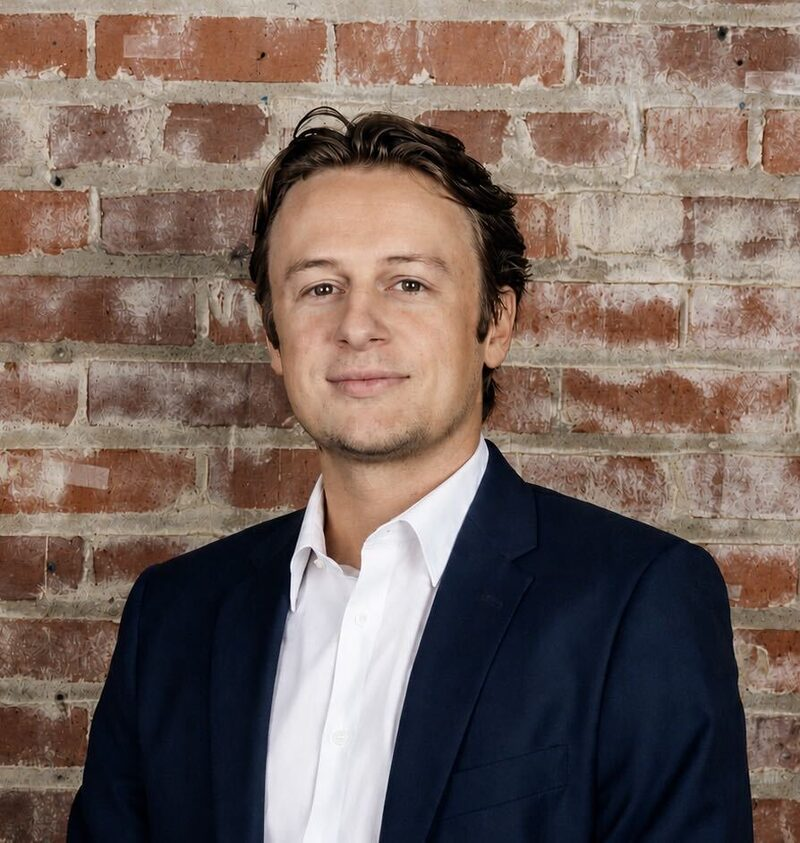
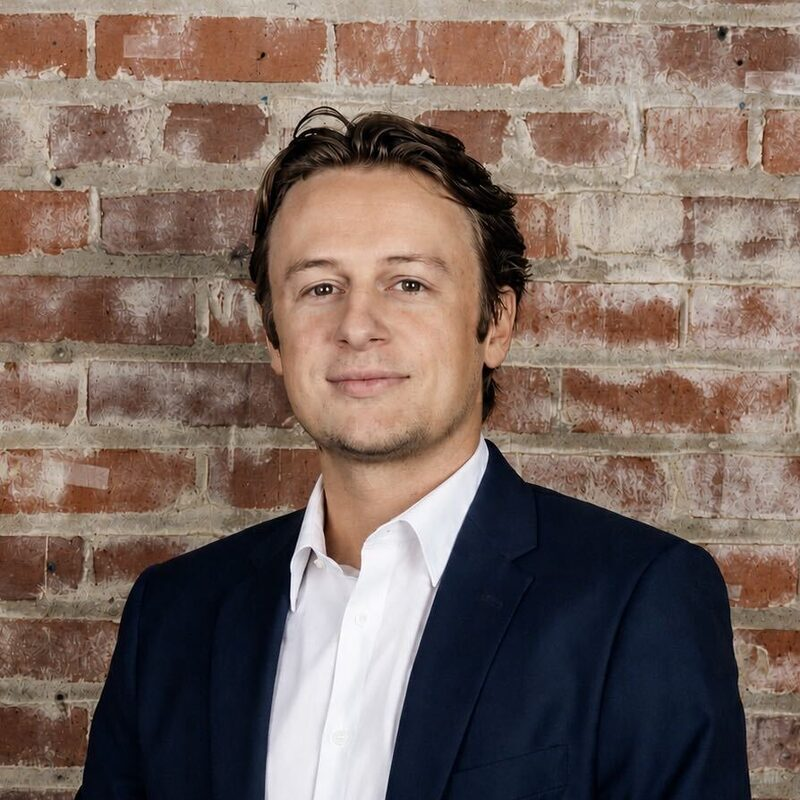
notion connection

diff --git a/app/api/reserve/route.js b/app/api/reserve/route.js
@@ -1,0 +1,56 @@
+// Receives reservation-list form submissions and creates a row in the
+// "BC Website Leads" Notion database. Requires two environment variables
+// (set in Vercel → Project → Settings → Environment Variables):
+//   NOTION_TOKEN       — internal integration secret (starts with "ntn_")
+//   NOTION_DATABASE_ID — the BC Website Leads database ID
+
+export async function POST(req) {
+  if (!process.env.NOTION_TOKEN || !process.env.NOTION_DATABASE_ID) {
+    console.error("Missing NOTION_TOKEN or NOTION_DATABASE_ID");
+    return Response.json({ error: "Server not configured" }, { status: 500 });
+  }
+
+  let data;
+  try {
+    data = await req.json();
+  } catch {
+    return Response.json({ error: "Invalid request" }, { status: 400 });
+  }
+
+  const name = String(data.name || "").trim().slice(0, 200);
+  const email = String(data.email || "").trim().slice(0, 200);
+  const phone = String(data.phone || "").trim().slice(0, 50);
+  const message = String(data.message || "").trim().slice(0, 2000);
+
+  if (!name || !email) {
+    return Response.json({ error: "Name and email are required" }, { status: 400 });
+  }
+
+  const properties = {
+    Name: { title: [{ text: { content: name } }] },
+    Email: { email },
+    Status: { select: { name: "New" } },
+  };
+  if (phone) properties.Phone = { phone_number: phone };
+  if (message) properties.Message = { rich_text: [{ text: { content: message } }] };
+
+  const res = await fetch("https://api.notion.com/v1/pages", {
+    method: "POST",
+    headers: {
+      Authorization: `Bearer ${process.env.NOTION_TOKEN}`,
+      "Notion-Version": "2022-06-28",
+      "Content-Type": "application/json",
+    },
+    body: JSON.stringify({
+      parent: { database_id: process.env.NOTION_DATABASE_ID },
+      properties,
+    }),
+  });
+
+  if (!res.ok) {
+    console.error("Notion API error", res.status, await res.text());
+    return Response.json({ error: "Could not save submission" }, { status: 502 });
+  }
+
+  return Response.json({ ok: true });
+}

diff --git a/app/interest-form.js b/app/interest-form.js
@@ -2,12 +2,9 @@
 
 import { useState } from "react";
 
-// Interest form — posts to FormSubmit's AJAX endpoint so submissions land in
-// email with zero backend setup. The first live submission triggers a one-time
-// activation email to the address below; click the link in it once and every
-// submission after that is delivered automatically.
-const FORM_ENDPOINT =
-  "https://formsubmit.co/ajax/alexanderbcarlson1@gmail.com";
+// Reservation form — posts to /api/reserve, which writes each submission
+// into the "BC Website Leads" database in Notion.
+const FORM_ENDPOINT = "/api/reserve";
 
 export default function InterestForm() {
   const [status, setStatus] = useState("idle"); // idle | sending | ok | err
@@ -21,14 +18,8 @@ export default function InterestForm() {
     try {
       const res = await fetch(FORM_ENDPOINT, {
         method: "POST",
-        headers: {
-          "Content-Type": "application/json",
-          Accept: "application/json",
-        },
-        body: JSON.stringify({
-          ...data,
-          _subject: "New reservation-list signup — Beatrice Commons",
-        }),
+        headers: { "Content-Type": "application/json" },
+        body: JSON.stringify(data),
       });
       if (!res.ok) throw new Error("Request failed");
       form.reset();

diff --git a/app/globals.css b/app/globals.css
@@ -528,7 +528,7 @@ h2 {
 
 .broker-photo img {
   object-fit: cover;
-  object-position: center 20%;
+  object-position: center;
 }
 
 .broker-card h3 {

diff --git a/README.md b/README.md
@@ -16,10 +16,13 @@ npm run dev
 
 Open http://localhost:3000.
 
-## Interest form
+## Reservation form → Notion
 
-The form posts to FormSubmit and delivers submissions by email. The first live
-submission sends a one-time activation email — click the link once and all
-future submissions are delivered automatically.
+"Reserve My Spot" submissions POST to `/api/reserve`, which creates a row in
+the **BC Website Leads** database in Notion. Two environment variables are
+required (Vercel → Project → Settings → Environment Variables, and `.env.local`
+for local dev):
 
-Live at: https://beatrice-commons.vercel.app
+- `NOTION_TOKEN` — internal integration secret from notion.so/profile/integrations
+  (the integration must be connected to the BC Website Leads database)
+- `NOTION_DATABASE_ID` — `3ce7b806467c806e935fe20efc312b8f`
